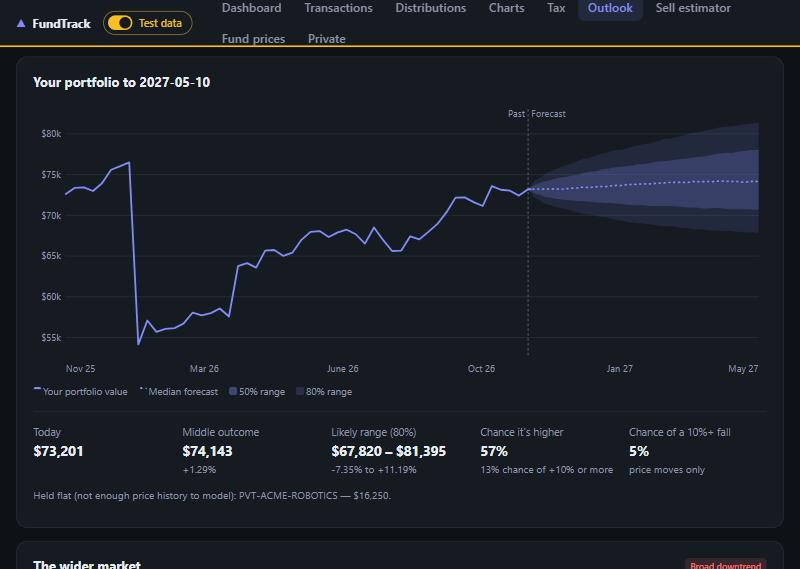
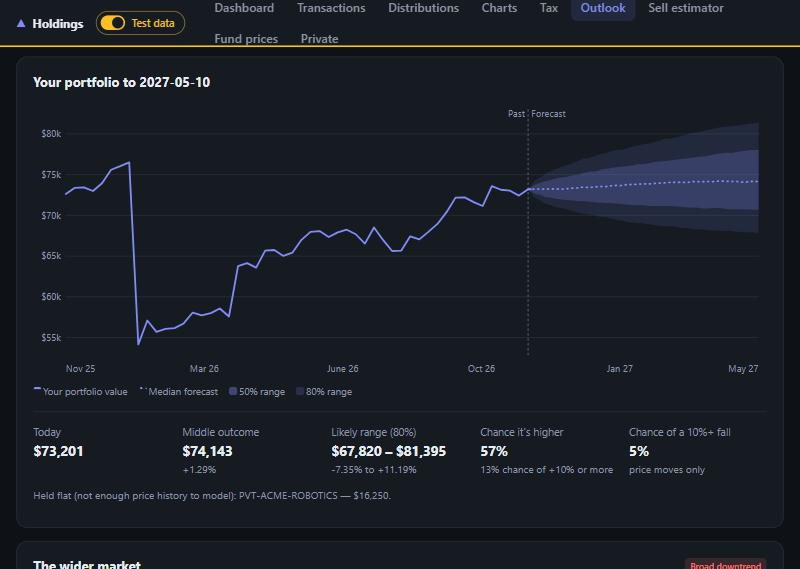
Rename the app to Holdings in the UI, exports and screenshots
The default data file names are unchanged so existing data keeps loading.

Changed region(s): [[0.25, 0.0, 0.9062, 0.0299], [0.0312, 0.0, 0.25, 0.0598], [0.25, 0.0598, 0.4375, 0.0896]]

diff --git a/web/reconcile.html b/web/reconcile.html
@@ -1,6 +1,6 @@
 {{define "content"}}
 <div class="head"><div><h1>Reconcile with your provider</h1>
-<p class="muted">Compare FundTrack's holdings with your provider's own holdings export (for Vanguard: <b>Holdings → Export</b>) to find out why the totals differ. Nothing is changed on this page.</p></div>
+<p class="muted">Compare the holdings in your records with your provider's own holdings export (for Vanguard: <b>Holdings → Export</b>) to find out why the totals differ. Nothing is changed on this page.</p></div>
 <div class="actions"><a class="btn" href="/transactions">Transactions</a></div></div>
 
 {{if not .RC}}
@@ -17,28 +17,28 @@
 {{$rc := .RC}}
 <section class="stats">
   <div class="card stat"><span class="lbl">Provider total</span><span class="big">${{money $rc.VGTotal}}</span><span class="sub">{{.File}}{{if $rc.AsAt}} · prices {{$rc.AsAt}}{{end}}</span></div>
-  <div class="card stat"><span class="lbl">FundTrack total</span><span class="big">${{money $rc.FTTotal}}</span><span class="sub">from your recorded transactions</span></div>
+  <div class="card stat"><span class="lbl">Your total</span><span class="big">${{money $rc.FTTotal}}</span><span class="sub">from your recorded transactions</span></div>
   <div class="card stat"><span class="lbl">Difference</span><span class="big {{if gt .Diff 1.0}}neg{{end}}">${{money .Diff}}</span><span class="sub">{{$rc.NMissing}} holding{{if ne $rc.NMissing 1}}s{{end}} short of units{{if $rc.Cash}} · ${{money $rc.Cash}} cash{{end}}</span></div>
 </section>
 
 {{if $rc.NMissing}}
-<div class="flash warnnote"><b>Why they differ:</b> FundTrack has fewer units than the provider in {{$rc.NMissing}} holding{{if ne $rc.NMissing 1}}s{{end}}, worth about ${{money $rc.MissingValue}} at the provider's prices.
+<div class="flash warnnote"><b>Why they differ:</b> Your records have fewer units than the provider in {{$rc.NMissing}} holding{{if ne $rc.NMissing 1}}s{{end}}, worth about ${{money $rc.MissingValue}} at the provider's prices.
 Your earliest transaction is {{$rc.EarliestTxn}}, so units bought earlier are probably missing from what you imported. <b>Fix:</b> export and <a href="/transactions#import">import</a> the earlier transaction history (overlapping files are fine — duplicates are skipped), then compare again.
-{{if $rc.Cash}}The provider's cash balance (${{money $rc.Cash}}) is not tracked by FundTrack.{{end}}</div>
+{{if $rc.Cash}}The provider's cash balance (${{money $rc.Cash}}) is not tracked.{{end}}</div>
 {{else if $rc.NOK}}
-<div class="flash ok">Every unit count matches the provider.{{if $rc.Cash}} Any remaining difference is the cash balance (${{money $rc.Cash}}), which FundTrack doesn't track.{{end}}</div>
+<div class="flash ok">Every unit count matches the provider.{{if $rc.Cash}} Any remaining difference is the cash balance (${{money $rc.Cash}}), which isn't tracked.{{end}}</div>
 {{end}}
 
 <section class="card">
   <div class="card-h"><h2>Holdings</h2></div>
   <div class="tablewrap"><table>
-    <thead><tr><th>Holding</th><th class="r">Provider units</th><th class="r">FundTrack units</th><th class="r">Difference</th><th class="r">Value of difference</th></tr></thead>
+    <thead><tr><th>Holding</th><th class="r">Provider units</th><th class="r">Your units</th><th class="r">Difference</th><th class="r">Value of difference</th></tr></thead>
     <tbody>
     {{range $rc.Rows}}<tr>
       <td>{{.Name}}{{if .Symbol}} <span class="tag">{{.Symbol}}</span>{{end}}
-        {{if eq .Status "unmatched"}}<br><span class="muted s">Not found in FundTrack — import its transactions.</span>{{end}}
-        {{if eq .Status "extra"}}<br><span class="muted s">FundTrack has more units than the provider (a sale or transfer out that isn't in the provider's file?).</span>{{end}}
-        {{if .PriceMismatch}}<br><span class="muted s">FundTrack's price ({{num4 .FTPrice}}) differs from the provider's ({{num4 .VGPrice}}).</span>{{end}}</td>
+        {{if eq .Status "unmatched"}}<br><span class="muted s">Not found in your records — import its transactions.</span>{{end}}
+        {{if eq .Status "extra"}}<br><span class="muted s">Your records have more units than the provider (a sale or transfer out that isn't in the provider's file?).</span>{{end}}
+        {{if .PriceMismatch}}<br><span class="muted s">The price in your records ({{num4 .FTPrice}}) differs from the provider's ({{num4 .VGPrice}}).</span>{{end}}</td>
       <td class="r">{{num4 .VGUnits}}</td>
       <td class="r">{{num4 .FTUnits}}</td>
       <td class="r {{if eq .Status "ok"}}muted{{else}}neg{{end}}">{{if eq .Status "ok"}}✓{{else}}{{num4 .DiffUnits}}{{end}}</td>
@@ -46,7 +46,7 @@ Your earliest transaction is {{$rc.EarliestTxn}}, so units bought earlier are pr
     </tr>{{end}}
     </tbody>
   </table></div>
-  {{if $rc.NotInVanguard}}<p class="muted s">In FundTrack but not in the provider's file (sold, or held elsewhere): {{range $i, $r := $rc.NotInVanguard}}{{if $i}}, {{end}}{{$r.Name}} ({{num4 $r.FTUnits}} units){{end}}.</p>{{end}}
+  {{if $rc.NotInVanguard}}<p class="muted s">In your records but not in the provider's file (sold, or held elsewhere): {{range $i, $r := $rc.NotInVanguard}}{{if $i}}, {{end}}{{$r.Name}} ({{num4 $r.FTUnits}} units){{end}}.</p>{{end}}
 </section>
 <div><a class="btn" href="/reconcile">Compare another file</a></div>
 {{end}}

diff --git a/web/base.html b/web/base.html
@@ -3,7 +3,7 @@
 <head>
 <meta charset="utf-8">
 <meta name="viewport" content="width=device-width, initial-scale=1, viewport-fit=cover">
-<title>FundTrack</title>
+<title>Holdings</title>
 <link rel="stylesheet" href="/static/style.css">
 <link rel="stylesheet" href="/static/app.css">
 </head>
@@ -11,7 +11,7 @@
 <header class="top">
   <div class="wrap bar">
     <div class="brandrow">
-      <a class="brand" href="/"><span class="logo">▲</span> FundTrack</a>
+      <a class="brand" href="/"><span class="logo">▲</span> Holdings</a>
       <form method="post" action="/mode" class="modesw" title="Switch between your real data and simulated test data">
         <input type="hidden" name="mode" value="{{if .Test}}real{{else}}test{{end}}">
         <button class="swbtn{{if .Test}} on{{end}}" role="switch" aria-checked="{{if .Test}}true{{else}}false{{end}}"><span class="knob"></span><span class="swlbl">Test data</span></button>

diff --git a/web/dashboard.html b/web/dashboard.html
@@ -19,7 +19,7 @@
 {{if .Empty}}
 <div class="card empty">
   <h2>No transactions yet</h2>
-  <p>Add your buys, sells and distributions and FundTrack will work out <em>your</em> returns — based on when <em>you</em> invested, not the fund's headline numbers.</p>
+  <p>Add your buys, sells and distributions and Holdings will work out <em>your</em> returns — based on when <em>you</em> invested, not the fund's headline numbers.</p>
   <a class="btn primary" href="/transactions">Add your first transaction</a>
 </div>
 {{else}}

diff --git a/web/static/charts.js b/web/static/charts.js
@@ -1,4 +1,4 @@
-/* FundTrack charts: dependency-free, responsive SVG charts with touch/mouse tooltips.
+/* Holdings charts: dependency-free, responsive SVG charts with touch/mouse tooltips.
    Config comes from outlook.go / outlookpage.go (ChartCfg). Re-draws at the real
    container width, so text stays legible on phones. */
 (function () {

diff --git a/web/static/explorer.js b/web/static/explorer.js
@@ -1,4 +1,4 @@
-/* FundTrack chart explorer: pick series, choose a date range, drag to highlight a period.
+/* Holdings chart explorer: pick series, choose a date range, drag to highlight a period.
    Dependency-free SVG. Data: window.__EXPLORER__ (see chartdata.go). */
 (function () {
   'use strict';

diff --git a/reconcile.go b/reconcile.go
@@ -10,9 +10,9 @@ import (
 	"time"
 )
 
-// Reconciling FundTrack with a provider's holdings (valuation) export.
+// Reconciling the app's records with a provider's holdings (valuation) export.
 //
-// A transaction export only covers a window of time. Anything bought before it is simply absent, so FundTrack's
+// A transaction export only covers a window of time. Anything bought before it is simply absent, so the app's
 // units - and therefore value, cost base and returns - come out short. The holdings export lists what the account
 // really holds today, so comparing the two shows exactly which holdings are short and by how many units. It never edits
 // data: the cure is importing the missing history.
@@ -27,7 +27,7 @@ type VGHolding struct {
 
 type VGValuation struct {
 	Holdings []VGHolding
-	Cash     float64 // cash held with the provider (not an investment FundTrack tracks)
+	Cash     float64 // cash held with the provider (not an investment the app tracks)
 	Total    float64 // the provider's stated total, if the file has one (0 if not)
 	AsAt     string  // latest price date in the file
 }
@@ -205,23 +205,23 @@ type ReconRow struct {
 	Name, PriceDate  string
 	VGPrice, VGUnits float64
 	VGValue          float64
-	Symbol           string // matched FundTrack holding ("" if none)
+	Symbol           string // matched holding ("" if none)
 	FTUnits          float64
-	FTPrice          float64 // the price FundTrack is using
+	FTPrice          float64 // the price the app is using
 	FTPriceDate      string
-	DiffUnits        float64 // Vanguard minus FundTrack
+	DiffUnits        float64 // Vanguard minus the records
 	DiffValue        float64 // at Vanguard's price
 	Status           string  // ok | missing | extra | unmatched
-	PriceMismatch    bool    // FundTrack's price differs from Vanguard's by more than 1%
+	PriceMismatch    bool    // the app's price differs from Vanguard's by more than 1%
 }
 
 type Reconciliation struct {
 	Rows                  []ReconRow
-	NotInVanguard         []ReconRow // FundTrack holds it, the export doesn't list it
-	VGTotal, FTTotal      float64    // FundTrack total at FundTrack's own prices
+	NotInVanguard         []ReconRow // the records hold it, the export doesn't list it
+	VGTotal, FTTotal      float64    // recorded total at the app's own prices
 	FTAtVGPrices          float64
 	Cash                  float64
-	MissingValue          float64 // value of units missing from FundTrack, at Vanguard's prices
+	MissingValue          float64 // value of units missing from the records, at Vanguard's prices
 	AsAt                  string
 	EarliestTxn           string
 	NMissing, NExtra, NOK int
@@ -231,7 +231,7 @@ type Reconciliation struct {
 
 const unitTol = 0.005
 
-// Reconcile compares the provider's holdings with what FundTrack computes.
+// Reconcile compares the provider's holdings with what the app computes.
 func Reconcile(db *DB, v *VGValuation, now time.Time) *Reconciliation {
 	res := Compute(db, now)
 	held := map[string]*Holding{}

diff --git a/main.go b/main.go
@@ -109,7 +109,7 @@ func main() {
 		}
 	}()
 
-	log.Printf("fundtrack listening on http://%s (data: %s)", addr, dataFile)
+	log.Printf("holdings listening on http://%s (data: %s)", addr, dataFile)
 	log.Fatal(http.ListenAndServe(addr, a.routes()))
 }
 
@@ -411,7 +411,7 @@ func (a *App) exportCSV(write func(w io.Writer, res *Result) error, name string)
 	return func(w http.ResponseWriter, r *http.Request) {
 		res, _ := a.compute()
 		w.Header().Set("Content-Type", "text/csv; charset=utf-8")
-		w.Header().Set("Content-Disposition", fmt.Sprintf(`attachment; filename="fundtrack-%s-%s.csv"`, name, time.Now().Format(dateFmt)))
+		w.Header().Set("Content-Disposition", fmt.Sprintf(`attachment; filename="holdings-%s-%s.csv"`, name, time.Now().Format(dateFmt)))
 		w.Write([]byte("\ufeff"))
 		if err := write(w, res); err != nil {
 			log.Printf("export %s: %v", name, err)

diff --git a/taxpages.go b/taxpages.go
@@ -74,7 +74,7 @@ func (a *App) taxExport(name string, write func(io.Writer, *TaxResult, string) e
 			label += "-" + fy
 		}
 		w.Header().Set("Content-Type", "text/csv; charset=utf-8")
-		w.Header().Set("Content-Disposition", fmt.Sprintf(`attachment; filename="fundtrack-%s.csv"`, label))
+		w.Header().Set("Content-Disposition", fmt.Sprintf(`attachment; filename="holdings-%s.csv"`, label))
 		w.Write([]byte("\xef\xbb\xbf"))
 		_ = write(w, tr, fy)
 	}

diff --git a/smoke_test.go b/smoke_test.go
@@ -42,7 +42,7 @@ func TestEveryPageRendersOnTestData(t *testing.T) {
 		{"/export/tax-cgt.csv", "income_year"},
 		{"/export/tax-distributions.csv?fy=2025-26", "income_year"},
 		{"/test/sample.csv", "Contract Note"},
-		{"/static/charts.js", "FundTrack charts"},
+		{"/static/charts.js", "Holdings charts"},
 	}
 	for _, p := range pages {
 		resp, err := http.Get(srv.URL + p.path)

diff --git a/market.go b/market.go
@@ -24,7 +24,7 @@ var benchmarks = map[string]string{
 
 func httpGet(u string) ([]byte, error) {
 	req, _ := http.NewRequest("GET", u, nil)
-	req.Header.Set("User-Agent", "Mozilla/5.0 (compatible; fundtrack/1.0)")
+	req.Header.Set("User-Agent", "Mozilla/5.0 (compatible; holdings/1.0)")
 	req.Header.Set("Accept", "application/json")
 	resp, err := httpc.Do(req)
 	if err != nil {

diff --git a/private.go b/private.go
@@ -322,7 +322,7 @@ func resultURL(href string) string {
 
 func httpGetHTML(u string) ([]byte, error) {
 	req, _ := http.NewRequest("GET", u, nil)
-	req.Header.Set("User-Agent", "Mozilla/5.0 (compatible; fundtrack/1.0)")
+	req.Header.Set("User-Agent", "Mozilla/5.0 (compatible; holdings/1.0)")
 	req.Header.Set("Accept", "text/html")
 	resp, err := httpc.Do(req)
 	if err != nil {
